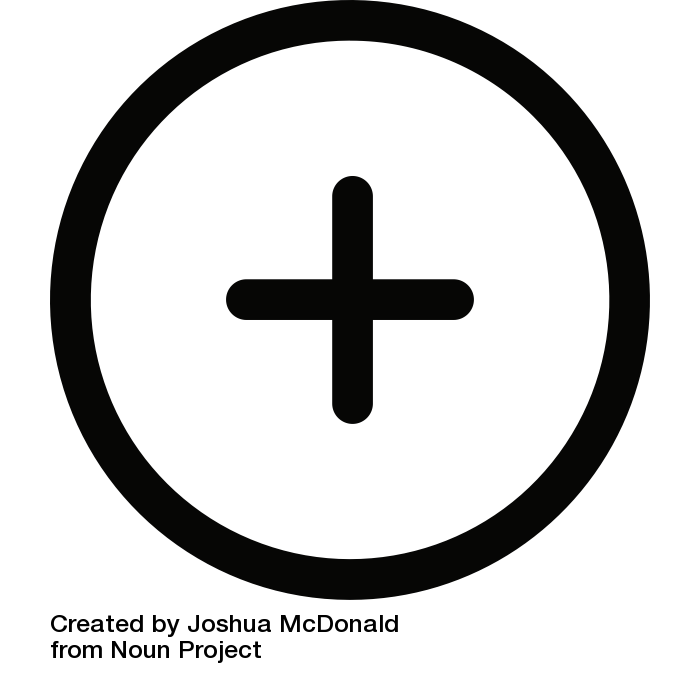
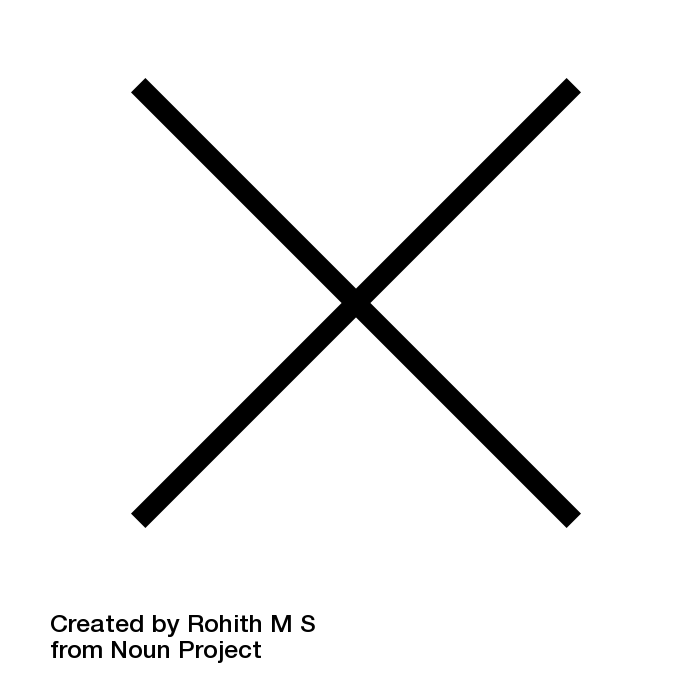
인트로 대략 완성
ㅇㄴㄴㅇ

Changed region(s): [[0.06, 0.0, 0.93, 0.9]]

diff --git a/portfolio/css/style.css b/portfolio/css/style.css
@@ -10,41 +10,26 @@ body{
   letter-spacing: -1px;
 }
 section.section_intro{height: 100%; position: relative;}
-/******************************************************************************
-███    ██  █████  ██    ██
-████   ██ ██   ██ ██    ██
-██ ██  ██ ███████ ██    ██
-██  ██ ██ ██   ██  ██  ██
-██   ████ ██   ██   ████
-******************************************************************************/
+
 nav{
   width: 100%; height: 0;
   position: fixed;
   z-index: 9999;
-  background-color: rgba(51, 51, 51, 0.51);
+  background-color: rgba(0, 0, 0, 0.74);
 }
 .nav_toggleBtn{
-  position: absolute; right: 9px; top: 20px;
+  z-index: 9999;
+  position: fixed; right: 24px; top: 20px;
   display: inline-block;
   cursor: pointer;
-  width: 50px; height: 30px;
-  background-color: #111;
-  background: url(../img/menu_icon.png) no-repeat;
-  -webkit-background-size: contain;
-  background-size: contain;
-  opacity: 0.6;
+  width: 50px; height: 50px;
+  background: url(../img/icons.png) no-repeat;
+  background-size: 200%;
+  background-position: 0 0;
 }
-.nav_toggleBtn:hover{
-  right: 20px;
-  opacity: 1;
-}
-/******************************************************************************
-███    ██  █████  ██    ██
-████   ██ ██   ██ ██    ██
-██ ██  ██ ███████ ██    ██
-██  ██ ██ ██   ██  ██  ██
-██   ████ ██   ██   ████
-******************************************************************************/
+.nav_toggleBtn:hover{right: 34px;}
+.nav_toggleBtn.active{background-position: -50px 0;}
+
 h1{
   letter-spacing: 4px;
   width: 100%;
@@ -56,28 +41,23 @@ h1{
   text-align: center;
   font-size: 20px;
 }
-h1::before{
-  /*content: '';
-  width: 24px; height: 24px;
-  margin-right: 20px;
-  position: relative; top: 5px;
-  background: url(../img/intro_icon.png) no-repeat;
-  background-size: contain;
+h1::before, h1::after{
+  content: '';
+  width: 20px; height: 1px;
+  border-radius: 20px;
+  background-color: #666;
   display: inline-block;
-  opacity: 0.7;*/
+  position: relative; bottom: 6px;
+  margin-right: 20px; margin-left: 10px;
 }
 .intro_nickname{
-  width: 100%;
+  width: 100%; text-align: center;
   overflow: hidden;
-  z-index: 4;
-  color: rgba(255, 255, 255,0.98);
-  font-size: 30px;
-  text-align: center;
-  position: absolute;
-  top: 50%;
-  font-weight: bold;
-  letter-spacing: -1px;
-  text-shadow: 0 0 3px rgba(0, 0, 0, 0.3);
+  color: rgba(255, 255, 255, 1);
+  font-size: 46px; font-family: 'Shadows Into Light', cursive;
+  position: absolute; top: 50%; z-index: 4;
+  letter-spacing: 1px;
+  text-shadow: 0 0 3px rgba(0, 0, 0, 0.5);
 }
 .intro_imgbox{
   position: absolute;
@@ -93,6 +73,40 @@ h1::before{
   cursor: pointer;
 }
 .intro_imgbox-leftbox{position: relative;}
+.intro_imgbox-box_h{
+  position: absolute;
+  z-index: 5;
+  font-size: 70px;
+  font-weight: bold;
+  letter-spacing: -5px;
+  line-height: 70px;
+  /*text-shadow: 2px 2px 3px rgba(255, 255, 255, 0.35);*/
+}
+.intro_imgbox-leftbox .intro_imgbox-box_h{
+  top: 50px; left: 10%;
+  color: #222;
+  text-align: left;
+}
+.intro_imgbox-rightbox .intro_imgbox-box_h{
+  text-align: right;
+  bottom: 50px; right: 10%;
+  color: #fff;
+}
+.intro_imgbox-box_img{
+  position: absolute;
+  display: inline-block;
+  width: 50px; height: 50px;
+  background: url(../img/icons.png) no-repeat;
+  background-size: 100px;
+}
+.intro_imgbox-leftbox .intro_imgbox-box_img{
+  top: 12px; right: 44px;
+  background-position: 0 -100px;
+}
+.intro_imgbox-rightbox .intro_imgbox-box_img{
+  bottom: 6px; left: -40px;
+  background-position: -50px -100px;
+}
 .intro_imgbox-leftbox-white_img{
   width: 48.12%; height: 110%;
   position: absolute; top: 0; left: 0;
@@ -129,7 +143,7 @@ h1::before{
 }
 .intro_textbox{
   padding: 0 16px;
-  position: absolute; top: 6%;
+  position: absolute;
   z-index: 2;
   color: rgba(0, 0, 0, 0.7);
   opacity: 0;
@@ -141,27 +155,30 @@ h1::before{
 }
 .intro_imgbox-leftbox .intro_textbox{
   text-align: left;
-  left: 10px;
+  top: 10%; left: 10px;
   border-left: 1px solid rgba(0, 0, 0, 0.36);
 }
 .intro_imgbox-rightbox .intro_textbox{
   border-right: 1px solid rgba(0, 0, 0, 0.36);
   text-align: right;
-  right: 10px;
+  bottom: 10%; right: 10px;
 }
 .intro_arrowbox{
   width: 46px; height: 46px;
   background: url(../img/arr_icon_b.png) no-repeat;
   -webkit-background-size: contain;
   background-size: contain;
-  position: absolute; top: 0;
+  position: absolute;
   z-index: 999;
   opacity: 0;
 }
-.intro_imgbox-leftbox .intro_arrowbox{left: 3%;}
+.intro_imgbox-leftbox .intro_arrowbox{
+  left: 3%;
+  bottom: 10%;
+}
 .intro_imgbox-rightbox .intro_arrowbox{
   transform: rotate(180deg);
-  right: 3%;
+  top: 10%; right: 3%;
 }
 .intro_imgbox-leftbox:hover .intro_imgbox-leftbox-code_img{
   filter: grayscale(0%);

diff --git a/portfolio/js/script.js b/portfolio/js/script.js
@@ -14,32 +14,37 @@ var introPos = function(){
       // 'top':  $h1.outerHeight()/2,
       // 'left': $win.width()/2 - $h1.outerWidth()/2
     });
-    $arr.css({
-      'top': $win.height()/2 - 15,
-    });
-    // console.log($h1.width());
+    $arr.css({'top': $win.height()/2 - 15,});
 };
 
 var introPos = function(){
   var $h1 = $('h1'),
       $arr = $('.intro_imgbox .intro_arrowbox'),
       $imgbox = $('.intro_imgbox');
-  $arr.css({
-    'top': $imgbox.height()/2  -15
-  });
+  // $arr.css({'top': $imgbox.height()/2  -15});
 };
 
 var navFunc = function(){
   var $nav = $('nav'),
-      $togBtn = $('.nav_toggleBtn');
+      $togBtn = $('.nav_toggleBtn'),
+      $secIntro = $('.section_intro');
 
   $togBtn.on('click', function(){
     $nav.toggleClass('active');
+    $(this).toggleClass('active');
     if($nav.hasClass('active')){
-
+      console.log('있음');
+      $nav.stop().animate({
+        'height':100+'%'
+      },1000,'easeOutBounce');
+      $secIntro.css({'filter':'blur(2px)'});
     }else{
-
-    }
+      $secIntro.css({'filter':'blur(0px)'});
+      console.log('없음');
+      $nav.stop().animate({
+        'height':0+'%'
+      },800,'easeOutQuint');
+    };
     // $nav.stop().animate({
     //   'height':100+'%'
     // },500,'easeInOutCubic');
@@ -57,7 +62,9 @@ var introHover = function(){
       $arrR = $('.intro_imgbox-rightbox .intro_arrowbox'),
       $txtL = $('.intro_imgbox-leftbox .intro_textbox'),
       $txtR = $('.intro_imgbox-rightbox .intro_textbox'),
-      $nick = $('.intro_nickname');
+      $nick = $('.intro_nickname'),
+      $boxHL = $('.intro_imgbox-leftbox .intro_imgbox-box_h'),
+      $boxHR = $('.intro_imgbox-rightbox .intro_imgbox-box_h');
 
   $imgbox.hover(function(){
     $left.on('mouseenter', function(){
@@ -75,8 +82,16 @@ var introHover = function(){
       $right.stop().css({'background-color':'#fe1'},500,'easeInOutCubic');
       $arrL.stop().animate({'opacity':0.4,'left':10+'%'},500,'easeOutQuint');
       $arrR.stop().animate({'opacity':0,'right':3+'%'});
-      $txtL.stop().animate({'opacity':1,'left':10+'%'},1800,'easeOutQuint');
+      $txtL.stop().animate({'opacity':1,'left':10+'%'},2000,'easeOutQuint');
       $txtR.stop().animate({'opacity':0,'right':3+'%'});
+      $boxHL.stop().animate({
+        'opacity':0,
+        'left':3+'%'
+      },600,'easeOutQuint');
+      $boxHR.stop().animate({
+        'opacity':1,
+        'right':10+'%'
+      },600,'easeInQuint');
     });
     $right.on('mouseenter', function(){
       $leftVi.stop().animate({
@@ -94,7 +109,15 @@ var introHover = function(){
       $arrL.stop().animate({'opacity':0,'left':3+'%'});
       $arrR.stop().animate({'opacity':0.4,'right':10+'%'},500,'easeOutQuint');
       $txtL.stop().animate({'opacity':0,'left':3+'%'});
-      $txtR.stop().animate({'opacity':1,'right':10+'%'},1800,'easeOutQuint');
+      $txtR.stop().animate({'opacity':1,'right':10+'%'},2000,'easeOutQuint');
+      $boxHL.stop().animate({
+        'opacity':1,
+        'left':10+'%'
+      },600,'easeInQuint');
+      $boxHR.stop().animate({
+        'opacity':0,
+        'right':3+'%'
+      },600,'easeOutQuint');
     });
   },function(){
     $leftVi.stop().animate({
@@ -114,7 +137,17 @@ var introHover = function(){
     $arrR.stop().animate({'opacity':0,'right':3+'%'});
     $txtL.stop().animate({'opacity':0,'left':3+'%'});
     $txtR.stop().animate({'opacity':0,'right':3+'%'});
+    $boxHL.stop().animate({
+      'opacity':1,
+      'left':10+'%'
+    });
+    $boxHR.stop().animate({
+      'opacity':1,
+      'right':10+'%'
+    });
+
   });
+
   $imgbox.trigger('mouseenter');
 
   $imgbox.hover(function(){
@@ -137,7 +170,6 @@ var readyAndResize = function(){
 $win.resize(readyAndResize);
 justReady();
 $win.trigger('resize');
-
 
 });//document ready --;
 })(jQuery);

diff --git a/portfolio/index.html b/portfolio/index.html
@@ -9,20 +9,28 @@
 <body>
 
 <nav>
-  <div class="nav_toggleBtn"></div>
+
 </nav>
+<div class="nav_toggleBtn"></div>
 
 <section class="section_intro">
-  <h1>MaSeungHyun's portfoilo.</h1>
-  <div class="intro_nickname">Dreamless64</div>
+  <h1>MaSeungHyun's PORTFOLIO.</h1>
+  <div class="intro_nickname">"Dreamless64"</div>
   <div class="intro_imgbox">
     <div class="intro_imgbox-leftbox">
+      <div class="intro_imgbox-box_h">
+        <p>
+          WEB<br>
+          CODING<br>
+          VISION
+        </p>
+        <div class="intro_imgbox-box_img"></div>
+      </div>
       <div class="intro_imgbox-leftbox-white_img"></div>
       <div class="intro_imgbox-leftbox-v_img"></div>
       <div class="intro_imgbox-leftbox-code_img"></div>
       <div class="intro_arrowbox"></div>
       <div class="intro_textbox">
-        <p>
           <p>HELLO;<br><br>
             '코딩을 즐기려는',<br>
             '작업환경을 구축하는',<br>
@@ -30,17 +38,23 @@
             '배움을 확장하려는;<br><br>
             마승현 입니다;
           </p>
-        </p>
       </div>
     </div>
     <div class="intro_imgbox-rightbox">
+      <div class="intro_imgbox-box_h">
+        <p>
+          HUMAN<br>
+          ASPECT
+        </p>
+        <div class="intro_imgbox-box_img"></div>
+      </div>
       <div class="intro_imgbox-rightbox-v_img"></div>
       <div class="intro_arrowbox"></div>
       <div class="intro_textbox">
         <p>안녕하세요.<br><br>
           게임을 좋아하는<br>
           배우려 노력하는<br>
-          고양이를 키우는<br>
+          <del>고양이를 키우는</del><br>
           맡은 일에 충실한<br><br>
           마승현 입니다.
         </p>

diff --git a/portfolio/css/myreset.css b/portfolio/css/myreset.css
@@ -8,7 +8,7 @@ font-family: 'Noto Sans KR', sans-serif;
 
 /*open sans*/
 
-@import url('https://fonts.googleapis.com/css?family=Open+Sans:300,400,700');
+@import url('https://fonts.googleapis.com/css?family=Open+Sans:300,400,700,800');
 
 /*
 font-family: 'Open Sans', sans-serif;
@@ -24,6 +24,12 @@ font-family: 'Nanum Gothic', sans-serif;
 /*@import url('https://fonts.googleapis.com/earlyaccess/nanummyeongjo.css');*/
 /*
 font-family: 'Nanum Myeongjo', serif;
+ */
+
+ /*shadow into light*/
+ @import url('https://fonts.googleapis.com/css?family=Shadows+Into+Light');
+ /*
+ font-family: 'Shadows Into Light', cursive;
  */
 
  @font-face {

diff --git a/portfolio/js/easetype.js b/portfolio/js/easetype.js
@@ -180,7 +180,7 @@ jQuery.extend( jQuery.easing,
  * Copyright 짤 2001 Robert Penner
  * All rights reserved.
  *
- * Redistribution and use in source and binary forms, with or without modification, 
+ * Redistribution and use in source and binary forms, with or without modification,
  * are permitted provided that the following conditions are met:
  *
  * Redistributions of source code must retain the above copyright notice, this list of
